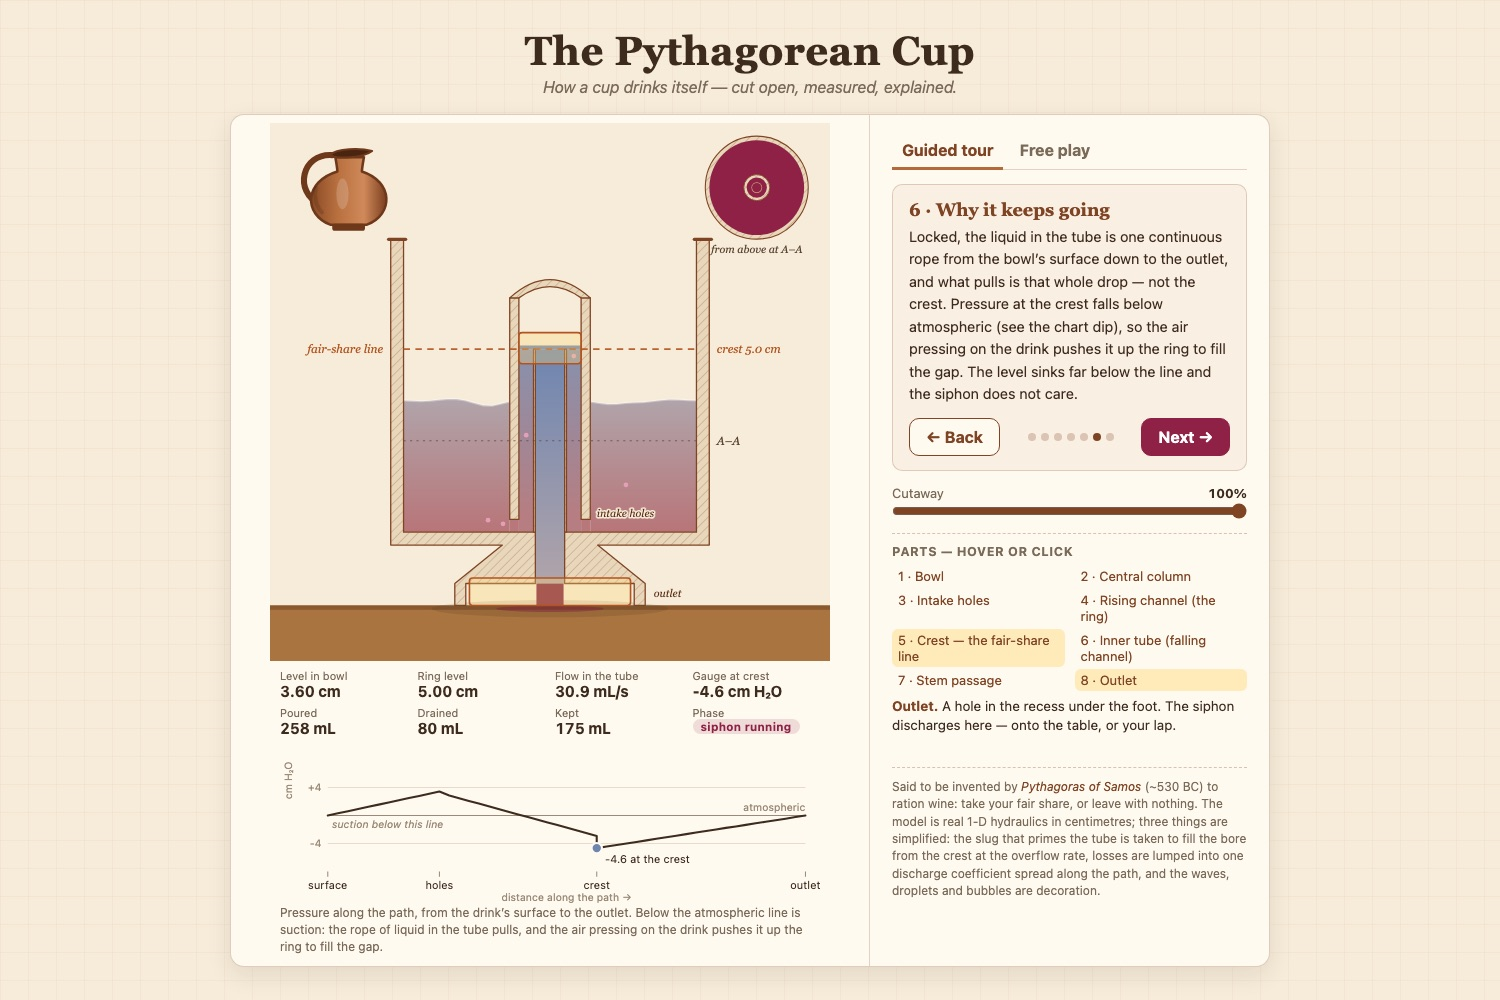
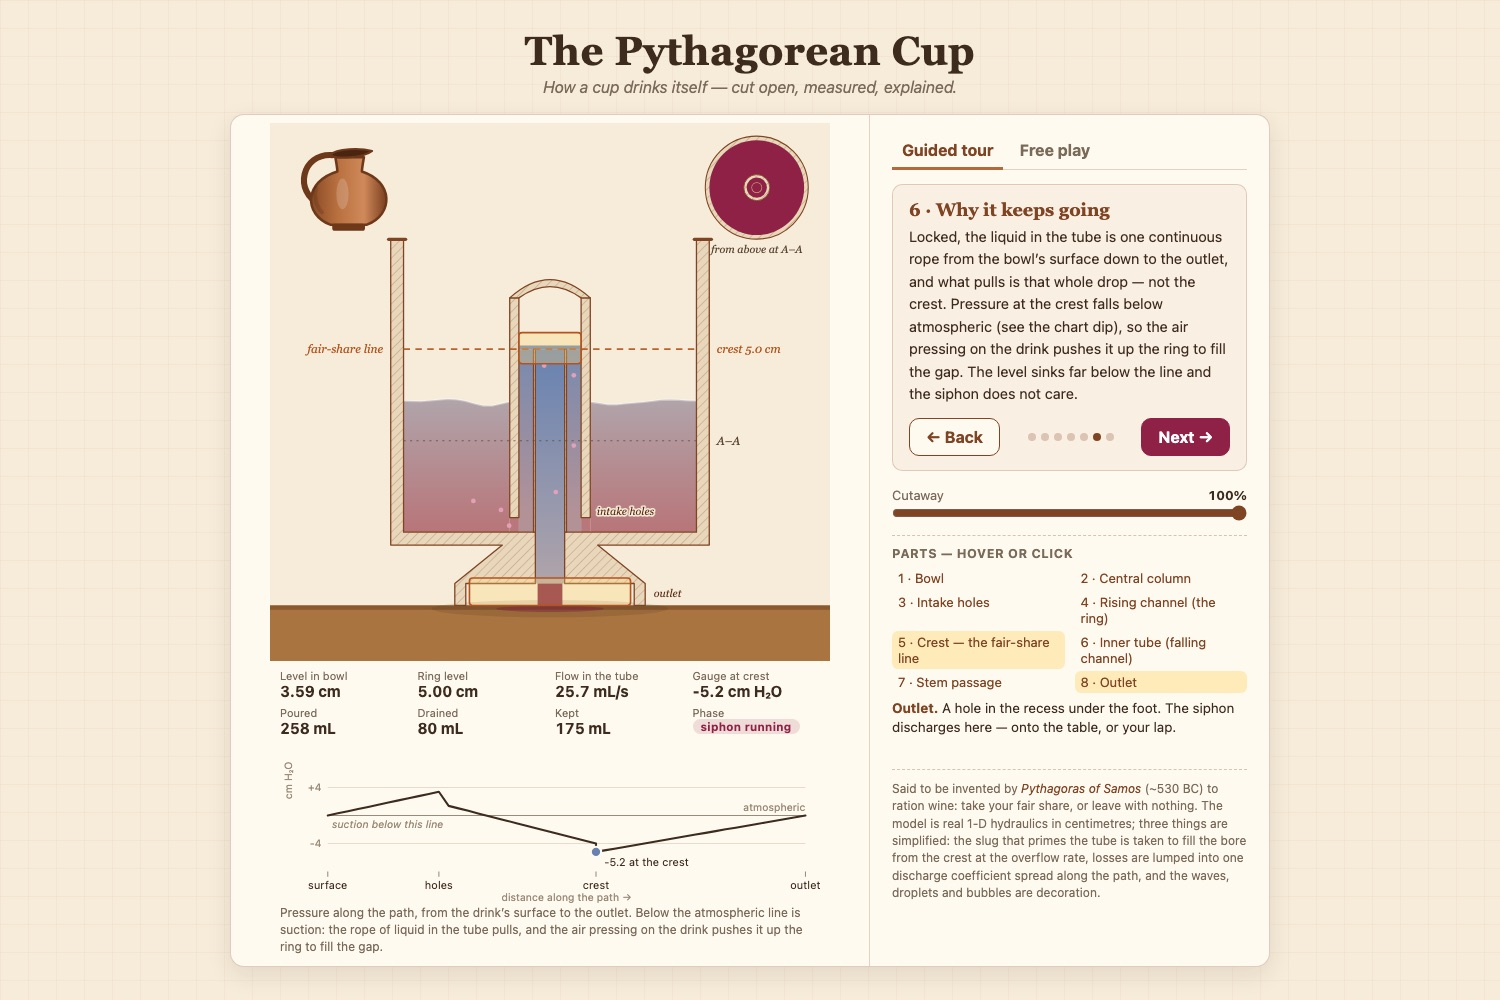
pythagorean-cup: intake-hole size slider (orifice in series with the bore, hole-top air break) and localStorage settings

diff --git a/pythagorean-cup/index.html b/pythagorean-cup/index.html
@@ -185,6 +185,8 @@
             <input type="range" id="crestRange" min="2.5" max="6.5" step="0.1" value="5.0"></label>
           <label class="slider">Tube bore <b id="boreVal">8 mm</b>
             <input type="range" id="boreRange" min="4" max="12" step="1" value="8"></label>
+          <label class="slider">Intake holes (six around the base) <b id="holeVal">4 mm</b>
+            <input type="range" id="holeRange" min="2" max="8" step="0.5" value="4"></label>
           <div class="toggles">
             <span>Speed <span class="seg" id="speedSeg"><button data-s="0.25">&frac14;&times;</button><button data-s="1" class="on">1&times;</button><button data-s="3">3&times;</button></span></span>
             <label class="toggle"><input type="checkbox" id="pressureToggle"> Pressure view</label>
@@ -246,10 +248,10 @@ function makeGeometry(o = {}) {
   const g = Object.assign({
     bowlR: 4.0, rimZ: 8.0, wall: 0.35,
     colR: 1.1, colWall: 0.25, colTopZ: 6.4,
-    holeZ0: 0.0, holeZ1: 0.35,
+    holeZ0: 0.0, holeD: 0.4, nHoles: 6,      // round intake holes sitting on the floor
     tubeR: 0.4, tubeWall: 0.05, crestZ: 5.0,
     outletZ: -1.4, tableZ: -2.0,
-    Cd: 0.62, Cw: 0.4, pourRate: 45
+    Cd: 0.62, Ch: 0.62, Cw: 0.4, pourRate: 45
   }, o);
   deriveGeometry(g);
   return g;
@@ -257,14 +259,21 @@ function makeGeometry(o = {}) {
 function deriveGeometry(g) {
   g.colInnerR  = g.colR - g.colWall;
   g.tubeOuterR = g.tubeR + g.tubeWall;
+  g.holeZ1     = g.holeZ0 + g.holeD;        // air gets in once the surface drops below this
+  g.A_holes    = g.nHoles * Math.PI * (g.holeD / 2) ** 2;
   if (g.tubeOuterR >= g.colInnerR) throw new Error("tube does not fit inside the column");
-  if (g.crestZ >= g.colTopZ || g.crestZ <= g.holeZ1) throw new Error("crest out of range");
+  if (g.holeD <= 0 || g.crestZ >= g.colTopZ || g.crestZ <= g.holeZ1) throw new Error("crest or holes out of range");
   g.A_bowl = Math.PI * (g.bowlR ** 2 - g.colR ** 2);           // free surface of the drink
   g.A_ann  = Math.PI * (g.colInnerR ** 2 - g.tubeOuterR ** 2); // the ring around the tube
   g.A_tube = Math.PI * g.tubeR ** 2;                            // the bore
   g.A_conn = g.A_bowl + g.A_ann;            // bowl + rising channel act as one vessel
   g.V_tube = g.A_tube * (g.crestZ - g.outletZ);
   return g;
+}
+// Siphon discharge: q = siphonCoeff * sqrt(2 g H). The bore and the intake holes are two orifices in
+// series, so their head losses add: H = q^2/2g * [1/(Cd A_tube)^2 + 1/(Ch A_holes)^2]. Tiny holes throttle it.
+function siphonCoeff(g) {
+  return 1 / Math.sqrt(1 / (g.Cd * g.A_tube) ** 2 + 1 / (g.Ch * g.A_holes) ** 2);
 }
 
 // ---------------------------------------------------------------------------
@@ -307,6 +316,10 @@ class CupModel {
     const g = this.geo; g.tubeR = d / 2; deriveGeometry(g);
     if (this.phase !== "filling" && this.phase !== "empty") this.reset();
   }
+  setHoles(d) {
+    const g = this.geo; g.holeD = d; deriveGeometry(g);
+    if (this.phase !== "filling" && this.phase !== "empty") this.reset();
+  }
   // pour into a vessel of the given free-surface area; excess over the rim is spilled outside
   _pour(dt, pouring, area) {
     if (!pouring) return;
@@ -347,7 +360,7 @@ class CupModel {
     }
     else if (this.phase === "siphon") {
       const H = this.h - g.outletZ;
-      this.qOut = g.Cd * g.A_tube * Math.sqrt(2 * G * H);
+      this.qOut = siphonCoeff(g) * Math.sqrt(2 * G * H);
       this._pour(dt, pouring, g.A_bowl);
       const dv = Math.min(this.qOut * dt, this.h * g.A_bowl);
       this.h -= dv / g.A_bowl; this.drained += dv;
@@ -386,8 +399,9 @@ class CupModel {
   }
 
   // Gauge pressure (cm H2O) along the streamline surface -> holes -> ring -> crest -> tube -> outlet.
-  // Static below the crest: p = h - z. Flowing: Bernoulli with the total loss (1 - Cd^2)*H spread
-  // evenly along the flowing part of the path, so the outlet reads exactly atmospheric.
+  // Static below the crest: p = h - z. Flowing: Bernoulli with losses. The intake holes take their
+  // orifice loss as a step right at the holes; the bore's loss is spread evenly along the rest of the
+  // flowing path, so the outlet reads exactly atmospheric.
   pressureProfile(n = 48) {
     const g = this.geo, h = this.h, holeZ = (g.holeZ0 + g.holeZ1) / 2;
     const flowing = this.phase === "siphon";
@@ -399,9 +413,11 @@ class CupModel {
     const Lflow = Lann + Ltube;
     const H = h - g.outletZ;
     const lossTotal = flowing ? Math.max(0, H - vTube * vTube / (2 * G)) : 0;
+    const lossHoles = flowing ? Math.min(lossTotal, (q / (g.Ch * g.A_holes)) ** 2 / (2 * G)) : 0;
+    const lossPath = lossTotal - lossHoles;
     const pts = [];
     const push = (seg, s, z, v, sFlow) => {
-      const loss = Lflow > 0 ? lossTotal * (sFlow / Lflow) : 0;
+      const loss = seg === "bowl" ? 0 : lossHoles + (Lflow > 0 ? lossPath * (sFlow / Lflow) : 0);
       pts.push({ seg, s, z, p: (h - z) - v * v / (2 * G) - loss });
     };
     const total = Lbowl + Lflow + 1e-9;
@@ -511,9 +527,12 @@ CupTests.add("crossing the crest primes the siphon within 3 s", () => {
 CupTests.add("siphon: Torricelli with head surface-to-outlet", () => {
   const g = makeGeometry(), m = pourModelTo(new CupModel(g), 5.3);
   runModel(m, 3, true); runModel(m, 0.5);
-  const expect = g.Cd * g.A_tube * Math.sqrt(2 * G * (m.h + m.qOut * 0.01 / g.A_bowl - g.outletZ));
+  const expect = siphonCoeff(g) * Math.sqrt(2 * G * (m.h + m.qOut * 0.01 / g.A_bowl - g.outletZ));
   near(m.flowOut(), expect, 1e-9);
-  assert(m.flowOut() > 30 && m.flowOut() < 40, "q " + m.flowOut());
+  assert(m.flowOut() > 25 && m.flowOut() < 40, "q " + m.flowOut());
+  // with the holes wide open the series formula collapses to plain Torricelli through the bore
+  const open = makeGeometry({ holeD: 1.0, nHoles: 40 });
+  near(siphonCoeff(open), open.Cd * open.A_tube, 0.01 * open.Cd * open.A_tube);
 });
 CupTests.add("siphon keeps running well below the crest", () => {
   const m = pourModelTo(new CupModel(makeGeometry()), 5.3);
@@ -542,11 +561,11 @@ CupTests.add("air break: breaking -> empty, channel levels fall to the bowl", ()
   near(m.balance(), 0, 1e-6);
 });
 CupTests.add("a wider bore drains faster (~d^2)", () => {
-  // compare at equal head: q / sqrt(h - outlet) is the bore's discharge coefficient times area
-  const k = (d) => { const g = makeGeometry({ tubeR: d / 2 }), m = pourModelTo(new CupModel(g), 5.3);
+  // compare at equal head with wide-open holes: q / sqrt(h - outlet) is then Cd times the bore area
+  const k = (d) => { const g = makeGeometry({ tubeR: d / 2, holeD: 1.0, nHoles: 400 }), m = pourModelTo(new CupModel(g), 5.3);
     runModel(m, 3, true); m.step(0.01, false);
     return m.flowOut() / Math.sqrt(m.h + m.flowOut() * 0.01 / g.A_bowl - g.outletZ); };
-  near(k(1.0) / k(0.5), 4, 1e-9);
+  near(k(1.0) / k(0.5), 4, 1e-3);
 });
 CupTests.add("a hair over the line only dribbles, then settles", () => {
   const m = pourModelTo(new CupModel(makeGeometry()), 5.002);
@@ -571,8 +590,8 @@ CupTests.add("setters: crest and bore changes keep the model consistent", () => 
   near(m.geo.A_tube, Math.PI * 0.25, 1e-12);
 });
 CupTests.add("pressure: static column below the crest", () => {
-  const m = pourModelTo(new CupModel(makeGeometry()), 3.0);
-  near(m.pressureAt("holes"), m.h - 0.175, 1e-9);
+  const m = pourModelTo(new CupModel(makeGeometry()), 3.0), g = m.geo;
+  near(m.pressureAt("holes"), m.h - (g.holeZ0 + g.holeZ1) / 2, 1e-9);
   near(m.pressureAt("outlet"), 0, 1e-9, "dry outlet reads atmospheric");
   near(m.pressureAt("crest"), 0, 1e-9, "dry crest reads atmospheric");
   const prof = m.pressureProfile();
@@ -591,6 +610,29 @@ CupTests.add("pressure: suction at the crest while the siphon runs", () => {
   near(prof.pts[prof.pts.length - 1].p, 0, 1e-9, "outlet sample is atmospheric");
   near(prof.pts[0].p, 0, 1e-9, "surface sample is atmospheric");
 });
+CupTests.add("intake holes: small holes throttle the siphon and drop the pressure at the holes", () => {
+  const at = (holeD) => { const g = makeGeometry({ holeD }), m = pourModelTo(new CupModel(g), 5.3);
+    runModel(m, 3, true); while (m.h > 4.0) m.step(0.01, false); return m; };
+  const small = at(0.2), big = at(0.8);
+  assert(small.flowOut() < 0.8 * big.flowOut(), `small ${small.flowOut()} vs big ${big.flowOut()}`);
+  // pressure just inside the holes: static head minus the orifice loss
+  const inside = (m) => m.pressureProfile().pts.find(p => p.seg === "ann");
+  const lossSmall = (small.h - inside(small).z) - inside(small).p, lossBig = (big.h - inside(big).z) - inside(big).p;
+  assert(lossSmall > 3 * lossBig, `hole loss small ${lossSmall} big ${lossBig}`);
+  // the film left behind reaches the top of the hole
+  runModel(small, 40); runModel(big, 40);
+  assert(small.phase === "empty" && big.phase === "empty");
+  assert(big.h > small.h + 0.3, `residual big ${big.h} small ${small.h}`);
+  near(small.balance(), 0, 1e-6); near(big.balance(), 0, 1e-6);
+});
+CupTests.add("setHoles keeps the model consistent", () => {
+  const m = pourModelTo(new CupModel(makeGeometry()), 3.0);
+  m.setHoles(0.6);
+  near(m.geo.holeZ1, 0.6, 1e-12); near(m.geo.A_holes, 6 * Math.PI * 0.09, 1e-12);
+  assert(m.phase === "filling" && m.h > 2.9, "filling is undisturbed");
+  m.setCrest(2.5); m.step(0.01, false); m.setHoles(0.3);
+  assert(m.phase === "filling" && m.h === 0, "mid-spill change resets");
+});
 </script>
 
 <script>
@@ -607,7 +649,7 @@ CupTests.add("pressure: suction at the crest while the siphon runs", () => {
   const PARTS = [
     { name: "bowl",    title: "Bowl",                        text: "Holds the drink. Its free surface is what sets every pressure inside the cup." },
     { name: "column",  title: "Central column",              text: "A hollow shell, closed at the top. From the drinker's side it is just a little dome in the middle of the floor." },
-    { name: "holes",   title: "Intake holes",                text: "Openings at the base of the shell. Whatever is in the bowl can flow in here — and air can get in once the bowl is nearly dry." },
+    { name: "holes",   title: "Intake holes",                text: "Openings around the base of the shell (six in this cup; the section cuts through two). Whatever is in the bowl can flow in here — and air gets in once the surface drops to them. Tiny holes throttle the siphon." },
     { name: "annulus", title: "Rising channel (the ring)",   text: "The ring-shaped gap between the shell and the inner tube. Liquid climbs here, level with the bowl." },
     { name: "crest",   title: "Crest — the fair-share line", text: "The open top of the inner tube. Fill above this and the drink spills over the lip into the tube." },
     { name: "tube",    title: "Inner tube (falling channel)", text: "A narrow bore running from the crest straight down through the stem." },
@@ -777,6 +819,7 @@ CupTests.add("pressure: suction at the crest while the siphon runs", () => {
     for (const id of ["bowlL", "bowlR", "surfL", "surfR", "annL", "annR", "holeL", "holeR", "lipFilm", "slug", "streamOut", "spillL", "spillR",
                       "puddle", "streamJug", "streamJugHi", "ripples", "particles", "revealRect", "cutEdge", "cutLabelOut", "cutLabelIn",
                       "leaders", "annot", "insBowl", "insAnn", "insBore", "pBowl", "pAnn", "pTube"]) App.el[id] = $(id);
+    for (const c of dropPool) App.el.particles.appendChild(c);   // the pool survives rebuilds
     for (const h of stage.querySelectorAll(".hit")) {
       h.addEventListener("pointerenter", () => setHover(h.dataset.part));
       h.addEventListener("pointerleave", () => setHover(null));
@@ -862,7 +905,7 @@ CupTests.add("pressure: suction at the crest while the siphon runs", () => {
     revealRange.value = Math.round(App.reveal * 100);
     revealVal.textContent = Math.round(App.reveal * 100) + "%";
   }
-  revealRange.addEventListener("input", () => { App.revealTween = null; setReveal(revealRange.value / 100); });
+  revealRange.addEventListener("input", () => { App.revealTween = null; setReveal(revealRange.value / 100); saveSettings(); });
 
   // ---------------------------------------------------------------------------
   // Pressure colours (diverging: cool = below atmospheric, warm = above, neutral at 0)
@@ -1188,24 +1231,46 @@ CupTests.add("pressure: suction at the crest while the siphon runs", () => {
   pourBtn.addEventListener("keyup", () => setPouring(false));
   $("resetBtn").addEventListener("click", () => { App.model.reset(); App.drops.length = 0; App.prevSpilled = 0; App.lastEvent = ""; onEvents(); });
 
-  const crestRange = $("crestRange"), boreRange = $("boreRange");
-  crestRange.addEventListener("input", () => {
-    const z = parseFloat(crestRange.value);
-    App.model.setCrest(z); $("crestVal").textContent = z.toFixed(1) + " cm";
-    buildStage(); App.drops.length = 0;
-  });
-  boreRange.addEventListener("input", () => {
-    const d = parseInt(boreRange.value, 10);
-    App.model.setBore(d / 10); $("boreVal").textContent = d + " mm";
-    buildStage(); App.drops.length = 0;
-  });
+  const crestRange = $("crestRange"), boreRange = $("boreRange"), holeRange = $("holeRange");
+  function applyCrest(z) { App.model.setCrest(z); crestRange.value = z; $("crestVal").textContent = z.toFixed(1) + " cm"; }
+  function applyBore(mm) { App.model.setBore(mm / 10); boreRange.value = mm; $("boreVal").textContent = mm + " mm"; }
+  function applyHoles(mm) { App.model.setHoles(mm / 10); holeRange.value = mm; $("holeVal").textContent = mm + " mm"; }
+  crestRange.addEventListener("input", () => { applyCrest(parseFloat(crestRange.value)); buildStage(); App.drops.length = 0; saveSettings(); });
+  boreRange.addEventListener("input", () => { applyBore(parseInt(boreRange.value, 10)); buildStage(); App.drops.length = 0; saveSettings(); });
+  holeRange.addEventListener("input", () => { applyHoles(parseFloat(holeRange.value)); buildStage(); App.drops.length = 0; saveSettings(); });
   function setSpeed(x) {
     App.speed = x;
     for (const b of $("speedSeg").children) b.classList.toggle("on", parseFloat(b.dataset.s) === x);
   }
-  for (const b of $("speedSeg").children) b.addEventListener("click", () => setSpeed(parseFloat(b.dataset.s)));
-  $("pressureToggle").addEventListener("change", (e) => setPressureView(e.target.checked));
-  $("labelsToggle").addEventListener("change", (e) => { App.labels = e.target.checked; App.el.annot.style.visibility = App.labels ? "visible" : "hidden"; });
+  for (const b of $("speedSeg").children) b.addEventListener("click", () => { setSpeed(parseFloat(b.dataset.s)); saveSettings(); });
+  function setLabels(on) { App.labels = on; $("labelsToggle").checked = on; App.el.annot.style.visibility = on ? "visible" : "hidden"; }
+  $("pressureToggle").addEventListener("change", (e) => { setPressureView(e.target.checked); saveSettings(); });
+  $("labelsToggle").addEventListener("change", (e) => { setLabels(e.target.checked); saveSettings(); });
+
+  // ---------------------------------------------------------------------------
+  // Settings persistence (per browser, via localStorage; every access is guarded)
+  // ---------------------------------------------------------------------------
+  const LS_KEY = "pythagorean-cup-v2-settings";
+  function loadSettings() {
+    try { return JSON.parse(localStorage.getItem(LS_KEY) || "{}") || {}; } catch (e) { return {}; }
+  }
+  function saveSettings() {
+    const g = geo();
+    const s = { crest: g.crestZ, bore: Math.round(g.tubeR * 20), holes: g.holeD * 10, speed: App.speed,
+                pressureView: App.pressureView, labels: App.labels, reveal: App.reveal, mode: App.mode, step: Tour.i };
+    try { localStorage.setItem(LS_KEY, JSON.stringify(s)); } catch (e) { /* storage unavailable: settings just don't persist */ }
+  }
+  function restoreSettings(s) {
+    const num = (v, lo, hi) => (typeof v === "number" && isFinite(v) && v >= lo && v <= hi) ? v : null;
+    const crest = num(s.crest, 2.5, 6.5), bore = num(s.bore, 4, 12), holes = num(s.holes, 2, 8);
+    if (crest !== null) applyCrest(crest);
+    if (bore !== null) applyBore(Math.round(bore));
+    if (holes !== null) applyHoles(holes);
+    if ([0.25, 1, 3].includes(s.speed)) setSpeed(s.speed);
+    if (typeof s.labels === "boolean") setLabels(s.labels);
+    if (typeof s.pressureView === "boolean") setPressureView(s.pressureView);
+    if (num(s.reveal, 0, 1) !== null) App.reveal = s.reveal;
+  }
 
   // ---------------------------------------------------------------------------
   // Tabs
@@ -1223,8 +1288,8 @@ CupTests.add("pressure: suction at the crest while the siphon runs", () => {
       App.lastEvent = ""; onEvents();
     } else Tour.go(Tour.i);
   }
-  $("tabTour").addEventListener("click", () => setMode("tour"));
-  $("tabPlay").addEventListener("click", () => setMode("play"));
+  $("tabTour").addEventListener("click", () => { setMode("tour"); saveSettings(); });
+  $("tabPlay").addEventListener("click", () => { setMode("play"); saveSettings(); });
 
   // ---------------------------------------------------------------------------
   // Guided tour
@@ -1287,9 +1352,9 @@ CupTests.add("pressure: suction at the crest while the siphon runs", () => {
     prev() { this.go(this.i - 1); }
   };
   const dots = $("tourDots");
-  TOUR.forEach((_, k) => { const s = document.createElement("span"); s.addEventListener("click", () => Tour.go(k)); dots.appendChild(s); });
-  $("tourNext").addEventListener("click", () => Tour.next());
-  $("tourPrev").addEventListener("click", () => Tour.prev());
+  TOUR.forEach((_, k) => { const s = document.createElement("span"); s.addEventListener("click", () => { Tour.go(k); saveSettings(); }); dots.appendChild(s); });
+  $("tourNext").addEventListener("click", () => { Tour.next(); saveSettings(); });
+  $("tourPrev").addEventListener("click", () => { Tour.prev(); saveSettings(); });
 
   // ---------------------------------------------------------------------------
   // Main loop
@@ -1316,7 +1381,11 @@ CupTests.add("pressure: suction at the crest while the siphon runs", () => {
   // ---------------------------------------------------------------------------
   // Boot (+ hooks for headless screenshots: ?play=1, ?step=N, ?reveal=NN, ?shot=name)
   // ---------------------------------------------------------------------------
+  const saved = params.has("nosave") ? {} : loadSettings();
   buildStage(); ensurePool();
+  restoreSettings(saved);        // may change the geometry, so build the stage again with it
+  buildStage();
+  setReveal(App.reveal);
   window.__shot = function (name) {
     const idx = { outside: 0, cutaway: 1, filling: 2, line: 3, prime: 4, siphon: 5, empty: 6 }[name];
     if (idx === undefined) return;
@@ -1331,8 +1400,12 @@ CupTests.add("pressure: suction at the crest while the siphon runs", () => {
     render(); updateReadouts();
   };
   if (params.has("shot")) window.__shot(params.get("shot"));
-  else if (params.has("play")) { setMode("play"); if (params.has("reveal")) setReveal(parseInt(params.get("reveal"), 10) / 100); }
-  else { Tour.go(params.has("step") ? parseInt(params.get("step"), 10) - 1 : 0); if (params.has("reveal")) { App.revealTween = null; setReveal(parseInt(params.get("reveal"), 10) / 100); } }
+  else if (params.has("play") || (!params.has("step") && saved.mode === "play")) { setMode("play"); if (params.has("reveal")) setReveal(parseInt(params.get("reveal"), 10) / 100); }
+  else {
+    const step = params.has("step") ? parseInt(params.get("step"), 10) - 1 : (Number.isInteger(saved.step) ? saved.step : 0);
+    Tour.go(step);
+    if (params.has("reveal")) { App.revealTween = null; setReveal(parseInt(params.get("reveal"), 10) / 100); }
+  }
   updateReadouts();
   requestAnimationFrame(tick);
 })();
